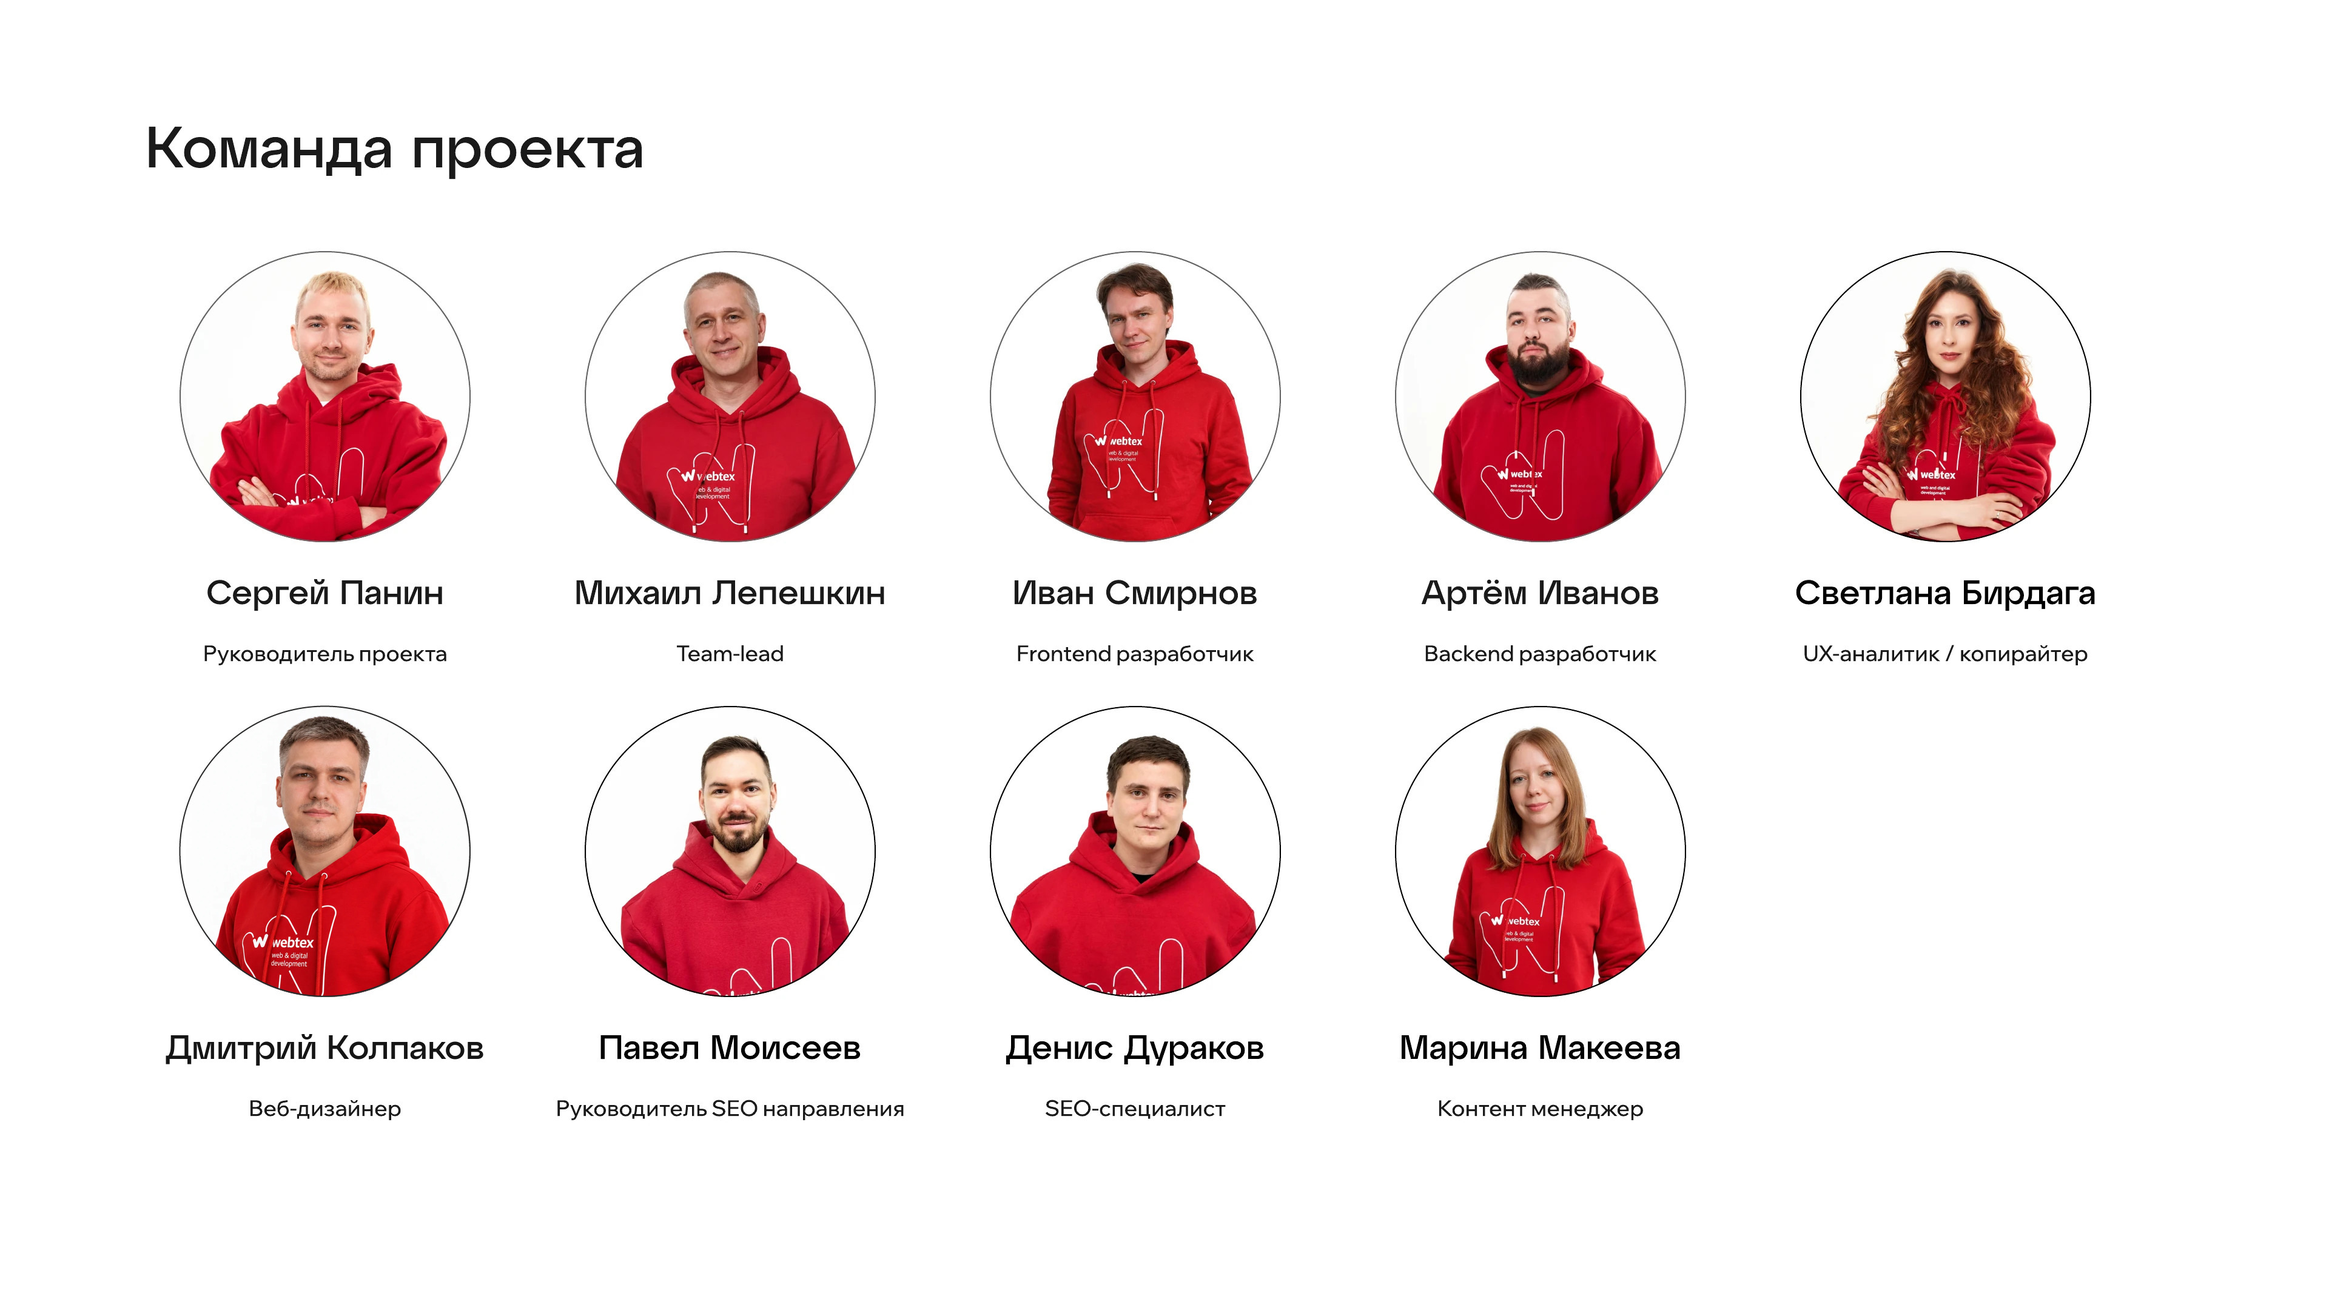
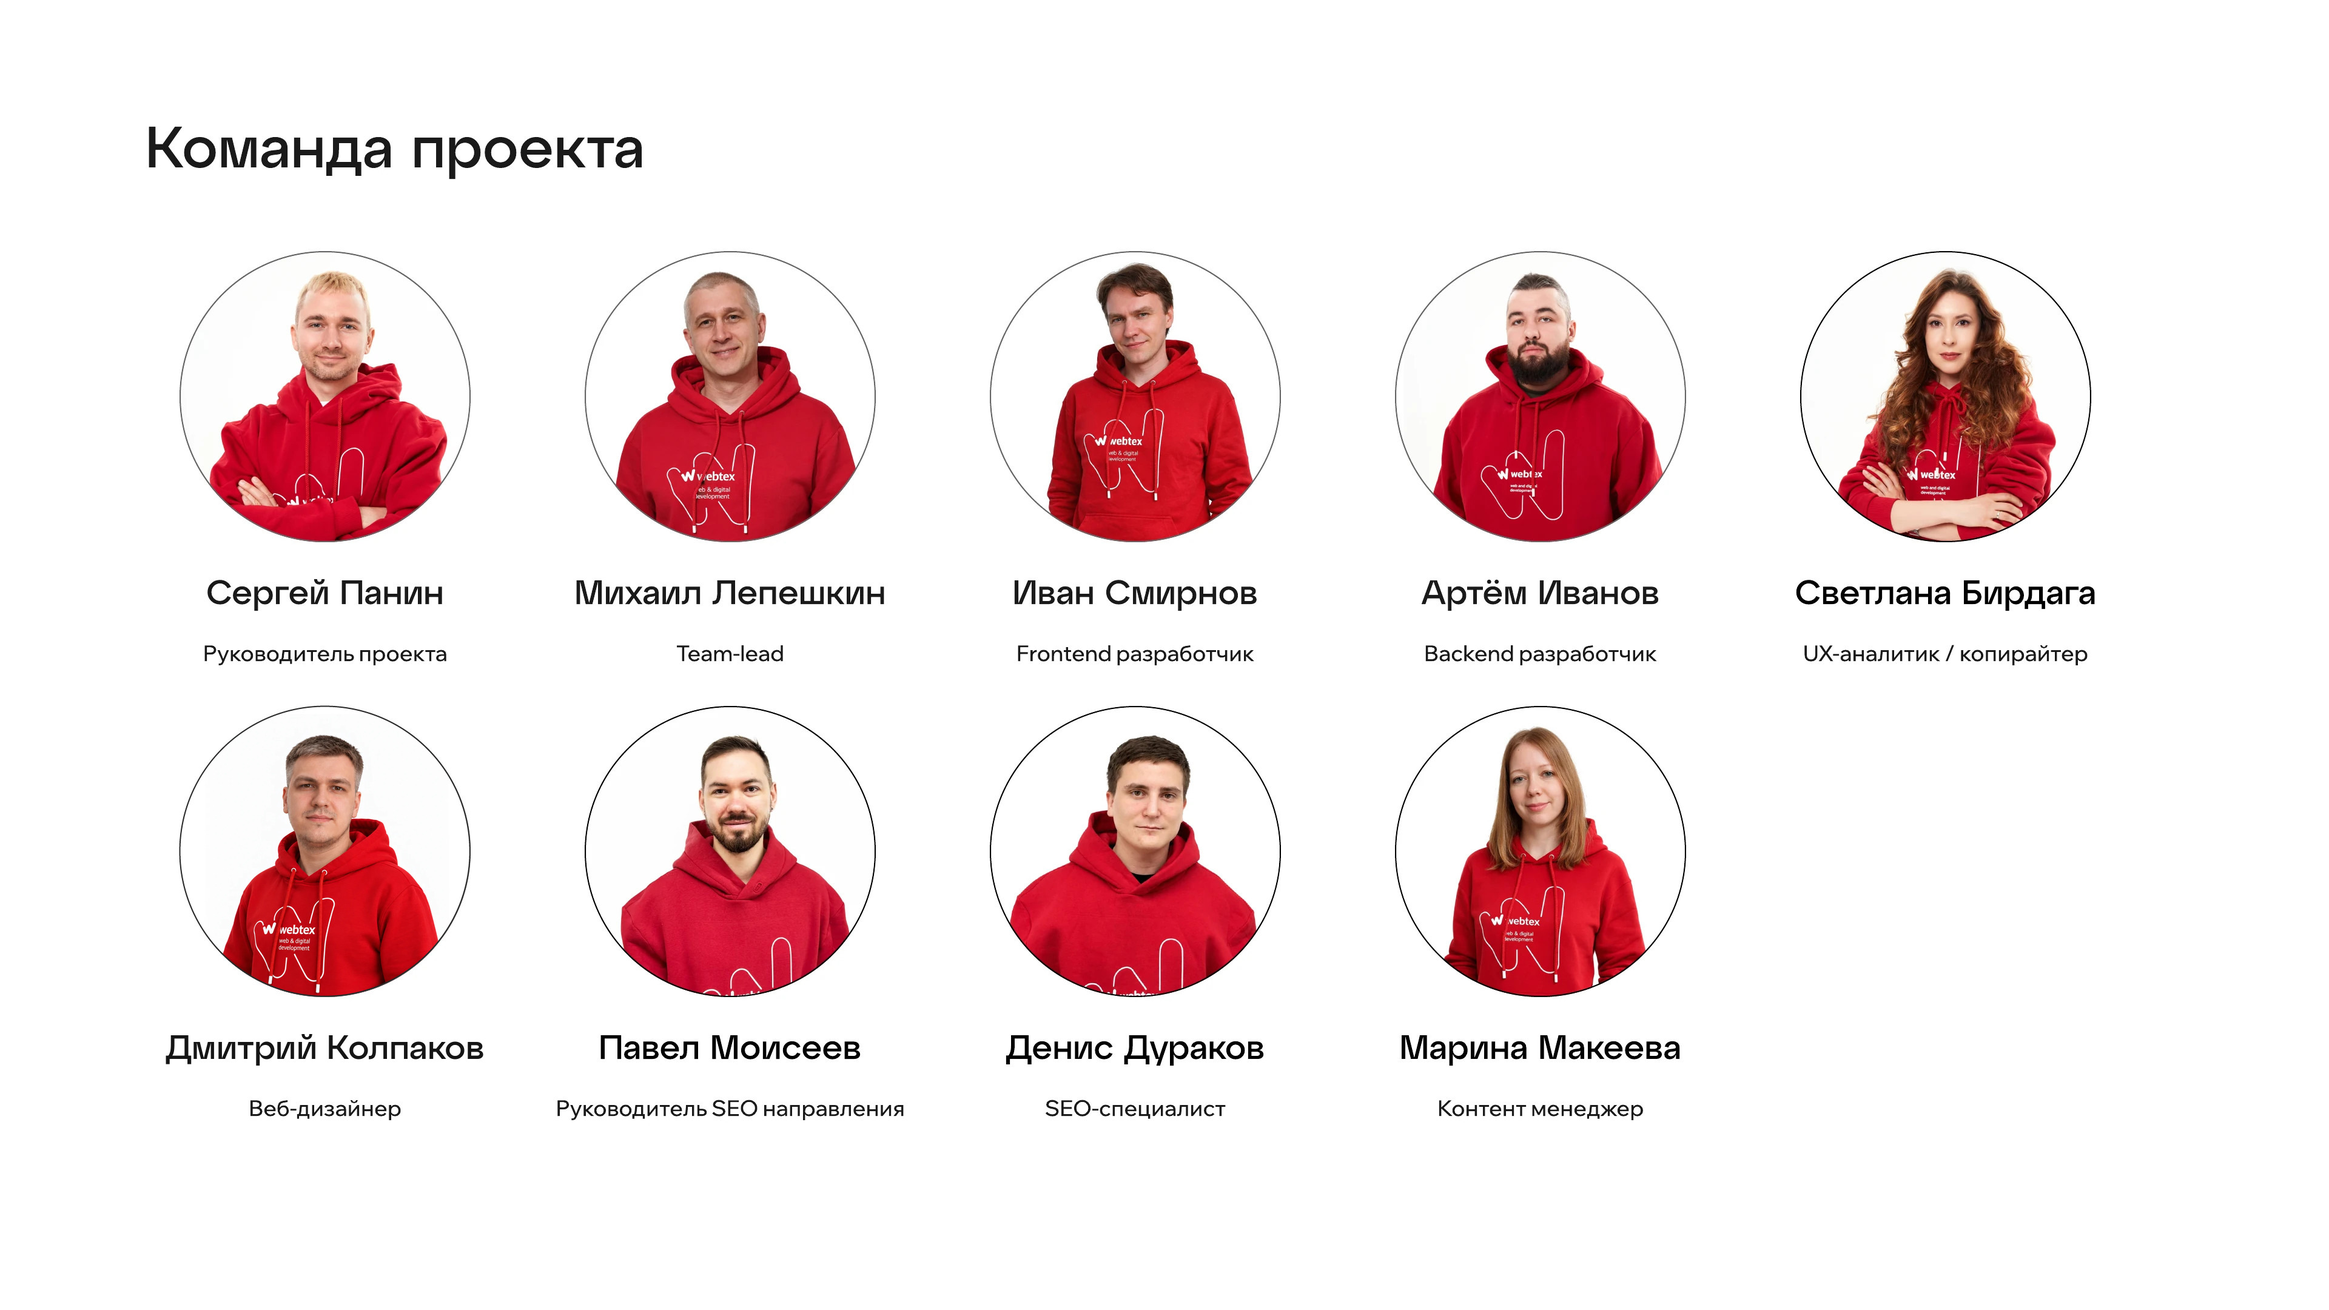
Tariff dropdown sets the name and fixed column order; reopen saved PDFs
- The tariff type dropdown (Нейро / Базовый / Премиум) is now the tariff:
  choosing it sets the name, and tariffs are always ordered Нейро →
  Базовый → Премиум on every slide and in the editor; the separate name
  field is gone (a different name from the sheet is shown as a hint).
- «Сохранить в PDF» stores the proposal data inside the PDF; «⬆ Открыть
  PDF» on the main page reads it back so the КП can be edited and saved
  again (replace the existing one or open as a copy).
- «Команда проекта»: smaller person in Дмитрий Колпаков's photo to match
  the others; asset version bumped.

Claude-Session: https://claude.ai/code/session_017xsj1cuyfrGLTEzeGPjJjt

Changed region(s): [[0.0938, 0.5273, 0.2188, 0.7444]]

diff --git a/js/app.js b/js/app.js
@@ -99,11 +99,21 @@
       ${rows.map((p) => `<tr data-id="${p.id}"><td><a href="#/p/${p.id}"><b>${esc(p.client)}</b></a></td><td>${summary(p)}</td><td class="muted">${fmtDate(p.updatedAt)}</td>
         <td style="white-space:nowrap"><button class="btn sm" data-a="open">Открыть</button> <button class="btn sm pri" data-a="pdf">PDF</button> <button class="btn sm" data-a="dup">Копия</button> <button class="btn sm dng" data-a="del">✕</button></td></tr>`).join('') || '<tr><td colspan="4" class="muted">Пока пусто — создайте первое КП.</td></tr>'}
       </tbody></table>
-      <div class="row" style="margin-top:18px"><button class="btn sm" data-a="pull">⬇ Загрузить из GitHub</button><button class="btn sm" data-a="push">⬆ Сохранить в GitHub</button><span class="g"></span><button class="btn sm" data-a="exp">Экспорт JSON</button><label class="btn sm">Импорт JSON<input type="file" id="imp" accept=".json" hidden></label></div>
+      <div class="row" style="margin-top:18px"><button class="btn sm" data-a="pull">⬇ Загрузить из GitHub</button><button class="btn sm" data-a="push">⬆ Сохранить в GitHub</button><span class="g"></span><button class="btn sm" data-a="exp">Экспорт JSON</button><label class="btn sm">Импорт JSON<input type="file" id="imp" accept=".json" hidden></label><label class="btn sm pri" title="PDF, скачанный кнопкой «Сохранить в PDF» — откроется для правки">⬆ Открыть PDF<input type="file" id="imppdf" accept=".pdf,application/pdf" hidden></label></div>
       <p class="muted">Данные хранятся в этом браузере и, по кнопке, в вашем GitHub-репозитории (см. «Настройки»).</p></div>`;
     $('#q').oninput = (e) => { viewList(e.target.value); const q = $('#q'); q.focus(); q.setSelectionRange(99, 99); };
     $('#imp').onchange = async (e) => {
       try { store.importJSON(await e.target.files[0].text()); toast('Импортировано'); viewList(); } catch (er) { toast('Ошибка: ' + er.message); }
+    };
+    $('#imppdf').onchange = async (e) => {
+      const file = e.target.files[0]; e.target.value = ''; if (!file) return;
+      try {
+        const p = await KP.proposalFromPdf(file);
+        const has = !!store.get(p.id);
+        const replace = has && confirm(`КП «${p.client}» уже есть в админке.\nОК — заменить его версией из PDF, Отмена — открыть как отдельную копию.`);
+        const q = store.importProposal(p, replace);
+        toast('КП открыто из PDF — можно править и скачать снова'); location.hash = '#/p/' + q.id;
+      } catch (er) { toast('Ошибка: ' + er.message, 8000); }
     };
     app.oninput = null; app.onchange = null;
     app.onclick = async (e) => {
@@ -177,7 +187,7 @@
         v.tariffs.forEach((t, ti) => {
           const b = `variants.${vi}.tariffs.${ti}`;
           h += `<div style="margin-top:12px;padding-top:10px;border-top:1px dashed var(--line)"><div class="row"><label class="sw"><input type="checkbox" data-p="${b}.enabled" data-t="bool" ${t.enabled ? 'checked' : ''}><i></i></label>
-            <input class="g" type="text" data-p="${b}.name" value="${esc(t.name)}"><select data-p="${b}.profile" style="width:105px" title="Какой столбец сравнения использовать">${Object.keys(KP.PROFILES).map((k) => `<option ${t.profile === k ? 'selected' : ''}>${k}</option>`).join('')}</select><button class="btn sm ghost dng" data-a="delT" data-vi="${vi}" data-ti="${ti}">✕</button></div>
+            <select class="g" data-p="${b}.profile" data-tariff="1" title="Тариф: название, колонка сравнения и место в таблицах (Нейро → Базовый → Премиум)">${Object.keys(KP.PROFILES).map((k) => `<option ${t.profile === k ? 'selected' : ''}>${k}</option>`).join('')}</select>${KP.normTariffName(t.name) !== t.profile ? `<span class="muted" style="font-size:12px" title="Название из таблицы">«${esc(t.name)}»</span>` : ''}<button class="btn sm ghost dng" data-a="delT" data-vi="${vi}" data-ti="${ti}">✕</button></div>
             <div class="row" style="margin-top:6px;flex-wrap:wrap;gap:12px">${tog(b + '.inCompare', t.inCompare, 'Сравнение')}${tog(b + '.inPayment', t.inPayment, 'Оплата')}${tog(b + '.estimate', t.estimate, 'Смета')}</div>
             <div class="row" style="margin-top:6px"><span class="muted g">Рассрочка, мес.</span><input type="number" style="width:116px" data-p="${b}.months" data-t="blank" value="${t.months ?? ''}" placeholder="авто: ${KP.autoMonths(tariffTotal(t))}"></div>
             <div class="row" style="margin-top:6px"><span class="muted g">Итого без сметы</span><input type="number" style="width:120px" data-p="${b}.total" data-t="num" value="${t.total ?? ''}" ${tariffRows(t).length ? 'disabled' : ''}></div>
@@ -268,6 +278,8 @@
         if (el.dataset.t === 'num') v = el.value === '' ? '' : num(el.value);
         if (el.dataset.t === 'blank') v = el.value === '' ? '' : num(el.value);
         setPath(p, el.dataset.p, v);
+        // тариф выбирается из выпадашки: имя = тип, порядок столбцов пересчитывается сам (Нейро → Базовый → Премиум)
+        if (el.dataset.tariff) { const [, vi, , ti] = el.dataset.p.split('.'); p.variants[+vi].tariffs[+ti].name = v; KP.sortTariffs(p.variants[+vi]); }
         save(); refreshComputed(); refreshPreviewOnly(); { const tp = $('#termpv'), it = curItem(); if (tp && it) tp.textContent = KP.termText(it.slide.fields); }
         if (el.dataset.disc) {
           const t = p.variants[+el.dataset.p.split('.')[1]].tariffs[+el.dataset.p.split('.')[3]];
@@ -304,7 +316,7 @@
         else if (a === 'dn' && i < p.slides.length - 1) { [p.slides[i + 1], p.slides[i]] = [p.slides[i], p.slides[i + 1]]; save(); renderSide(); }
         else if (a === 'addV') { p.variants.push({ id: KP.uid(), cms: 'Новая CMS', enabled: true, sheetTab: '', tariffs: [{ id: KP.uid(), name: 'Базовый', profile: 'Базовый', enabled: true, inCompare: true, inPayment: true, estimate: true, months: '', total: '', rows: [] }] }); save(); renderSide(); }
         else if (a === 'delV') { if (confirm('Удалить вариант вместе с тарифами?')) { p.variants.splice(vi, 1); save(); repaint(); } }
-        else if (a === 'addT') { p.variants[vi].tariffs.push({ id: KP.uid(), name: 'Новый тариф', profile: 'Базовый', enabled: true, inCompare: true, inPayment: true, estimate: true, months: '', total: '', rows: [] }); save(); renderSide(); }
+        else if (a === 'addT') { p.variants[vi].tariffs.push({ id: KP.uid(), name: 'Базовый', profile: 'Базовый', enabled: true, inCompare: true, inPayment: true, estimate: true, months: '', total: '', rows: [] }); save(); renderSide(); }
         else if (a === 'delT') { if (confirm('Удалить тариф?')) { p.variants[vi].tariffs.splice(ti, 1); save(); repaint(); } }
         else if (a === 'addL') { p.variants[vi].tariffs[ti].rows.push({ id: KP.uid(), name: '', rate: '', hours: '', fixed: '' }); save(); renderSide(); }
         else if (a === 'delL') { p.variants[vi].tariffs[ti].rows.splice(li, 1); save(); repaint(); }
@@ -352,6 +364,17 @@
     const s = document.createElement('script'); s.src = src; s.onload = ok; s.onerror = () => fail(new Error('Не загрузилась библиотека PDF — проверьте интернет'));
     document.head.appendChild(s);
   });
+  KP.PDF_MARK = 'KPDATA1:';
+  /** Достаёт КП из PDF, сохранённого кнопкой «Сохранить в PDF» (данные лежат в Keywords как base64 JSON). */
+  KP.proposalFromPdf = async function (file) {
+    const bytes = new Uint8Array(await file.arrayBuffer());
+    let txt = ''; for (let i = 0; i < bytes.length; i += 0x8000) txt += String.fromCharCode.apply(null, bytes.subarray(i, i + 0x8000));
+    const m = txt.match(new RegExp(KP.PDF_MARK + '([A-Za-z0-9+/=\\\\\\r\\n]+)'));
+    if (!m) throw new Error('В этом PDF нет данных КП. Открыть можно только PDF, скачанный кнопкой «⬇ Сохранить в PDF» (не через «Печать»).');
+    const p = JSON.parse(decodeURIComponent(escape(atob(m[1].replace(/[\\\r\n]/g, '')))));
+    if (!p || !Array.isArray(p.slides) || !Array.isArray(p.variants)) throw new Error('Данные КП в PDF повреждены');
+    return p;
+  };
   async function savePdf(p, btn) {
     const st = $('#st'), was = btn.textContent;
     btn.disabled = true;
@@ -365,6 +388,8 @@
       if (document.fonts && document.fonts.ready) await document.fonts.ready;
       const slides = [...document.querySelectorAll('#pages > .slide')];
       const pdf = new window.jspdf.jsPDF({ orientation: 'landscape', unit: 'px', format: [1920, 1080], hotfixes: ['px_scaling'], compress: true });
+      // данные КП кладём в свойства PDF — по кнопке «Открыть PDF» на главной файл откроется обратно для правки
+      pdf.setProperties({ title: 'КП — ' + p.client, keywords: KP.PDF_MARK + btoa(unescape(encodeURIComponent(JSON.stringify(p)))) });
       for (let i = 0; i < slides.length; i++) {
         btn.textContent = `Страница ${i + 1} из ${slides.length}…`;
         const c = slides[i].cloneNode(true); c.style.zoom = '1'; c.style.boxShadow = 'none';

diff --git a/js/slides.js b/js/slides.js
@@ -67,6 +67,10 @@
   const ALIAS = { 'база': 'Базовый', 'базовый': 'Базовый', 'оптимальный': 'Базовый', 'премиум': 'Премиум', 'премиальный': 'Премиум', 'нейро': 'Нейро' };
   const normTariffName = (n) => { const k = String(n || '').trim().toLowerCase().replace(/ё/g, 'е'); return k === 'база' ? 'Базовый' : String(n || '').trim(); };
   const profileFor = (name) => ALIAS[String(name || '').trim().toLowerCase()] || 'Базовый';
+  // порядок столбцов везде: Нейро → Базовый → Премиум (по типу тарифа из выпадашки), остальное — после
+  const ORDER = ['Нейро', 'Базовый', 'Премиум'];
+  const rank = (t) => { const i = ORDER.indexOf(t.profile || profileFor(t.name)); return i < 0 ? ORDER.length : i; };
+  const sortTariffs = (v) => { if (v && v.tariffs) v.tariffs = v.tariffs.map((t, i) => [t, i]).sort((a, b) => rank(a[0]) - rank(b[0]) || a[1] - b[1]).map((x) => x[0]); };
 
   const PAY_STAGES = ['Предоплата', 'По факту готовности дизайна', 'По факту готовности сайта'];
   const payStages = (p) => (p && p.payStages && p.payStages.length ? p.payStages : PAY_STAGES);
@@ -252,6 +256,7 @@
 
   /** Разворачивает КП в список страниц {key,kind,...}; includeDisabled — для списка слева */
   function expand(p, includeDisabled) {
+    (p.variants || []).forEach(sortTariffs);
     const out = [];
     const push = (o) => out.push(Object.assign({ p }, o));
     (p.slides || []).forEach((s) => {
@@ -278,8 +283,8 @@
 
   const RENDER = { cover: renderCover, static: renderStatic, compare: renderCompare, payment: renderPayment, estimate: renderEstimate, extras: renderExtras };
   // версия картинок: меняйте при обновлении файлов в assets/, чтобы браузер не брал старые из кэша
-  const ASSET_V = '20261027b';
+  const ASSET_V = '20261027c';
   const renderItem = (it) => (RENDER[it.kind] ? RENDER[it.kind](it) : '').replace(/assets\/([\w.-]+\.(?:webp|png|jpg|svg))/g, `assets/$1?v=${ASSET_V}`);
 
-  Object.assign(KP, { termText, payStages, payPlan, tariffDiscount, discountedTotal, TYPES, STATIC, PROFILES, expand, renderItem, esc, lines, uid, num, rub, grp, tariffTotal, tariffHours, tariffRows, tariffMonths, lineCost, plural, normTariffName, profileFor, dateRu, DEFAULT_RULES, autoMonths });
+  Object.assign(KP, { termText, sortTariffs, payStages, payPlan, tariffDiscount, discountedTotal, TYPES, STATIC, PROFILES, expand, renderItem, esc, lines, uid, num, rub, grp, tariffTotal, tariffHours, tariffRows, tariffMonths, lineCost, plural, normTariffName, profileFor, dateRu, DEFAULT_RULES, autoMonths });
 })();

diff --git a/js/store.js b/js/store.js
@@ -36,6 +36,14 @@
       return c;
     },
 
+    // КП, вытащенное из PDF: если такое уже есть — заменяем (replace=true) или кладём копией с новым id
+    importProposal(p, replace) {
+      const has = S.data.proposals.some((x) => x.id === p.id);
+      if (has && replace) S.data.proposals = S.data.proposals.map((x) => (x.id === p.id ? p : x));
+      else { if (has || !p.id) p.id = KP.uid(); S.data.proposals.push(p); }
+      p.updatedAt = new Date().toISOString(); S.persist(); return p;
+    },
+
     exportJSON() { return JSON.stringify(S.data, null, 2); },
     importJSON(txt) {
       const d = JSON.parse(txt);
